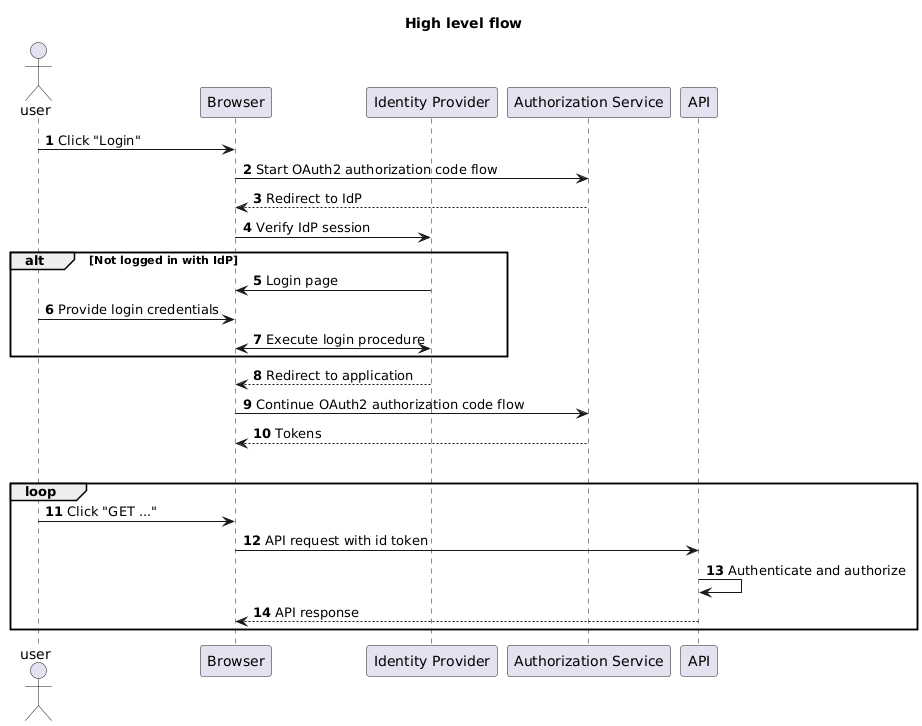
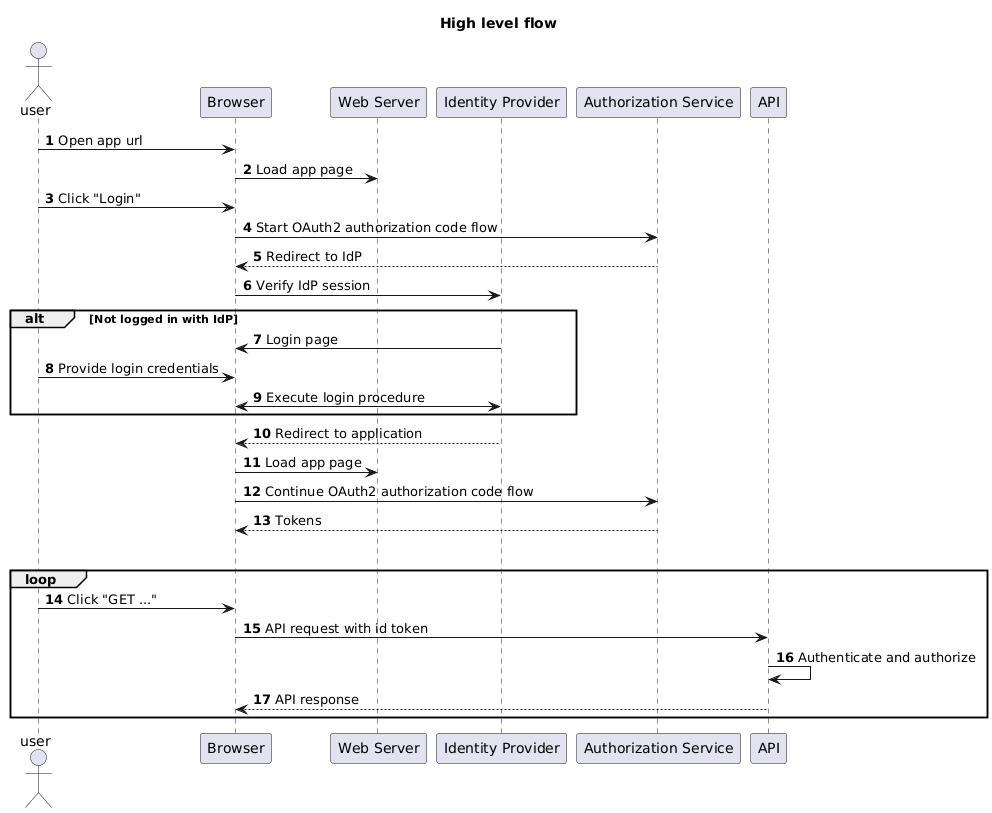
Update flow diagram

diff --git a/doc/diagrams.md b/doc/diagrams.md
@@ -5,9 +5,13 @@ title High level flow
 autonumber
 actor user
 participant "Browser" as browser
+participant "Web Server" as site
 participant "Identity Provider" as idp
 participant "Authorization Service" as authsrv
 participant "API" as api
+
+user -> browser : Open app url
+browser -> site : Load app page
 
 user -> browser : Click "Login"
 
@@ -22,6 +26,7 @@ alt Not logged in with IdP
 end
 
 idp --> browser : Redirect to application
+browser -> site : Load app page
 browser -> authsrv : Continue OAuth2 authorization code flow
 authsrv --> browser : Tokens
 |||
